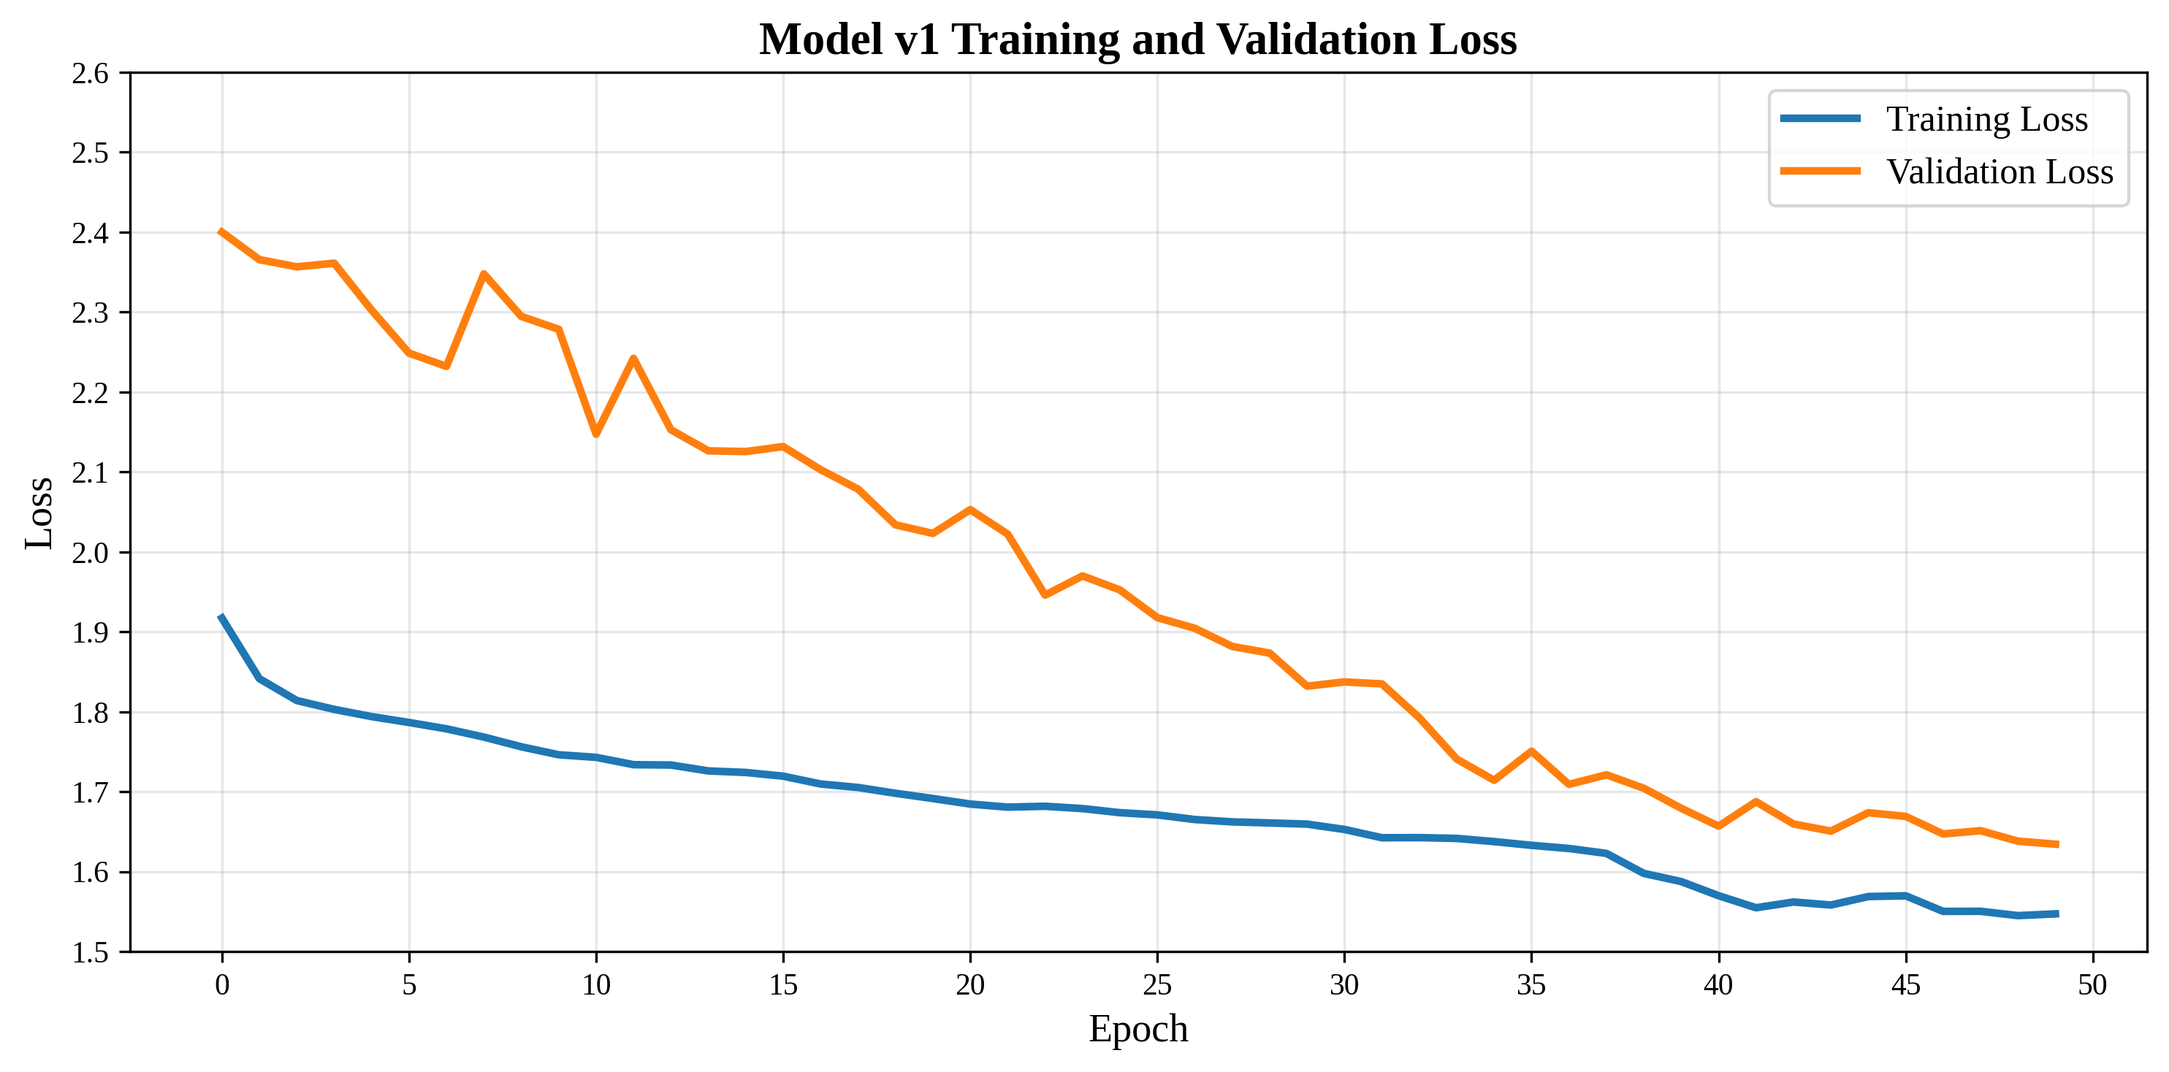
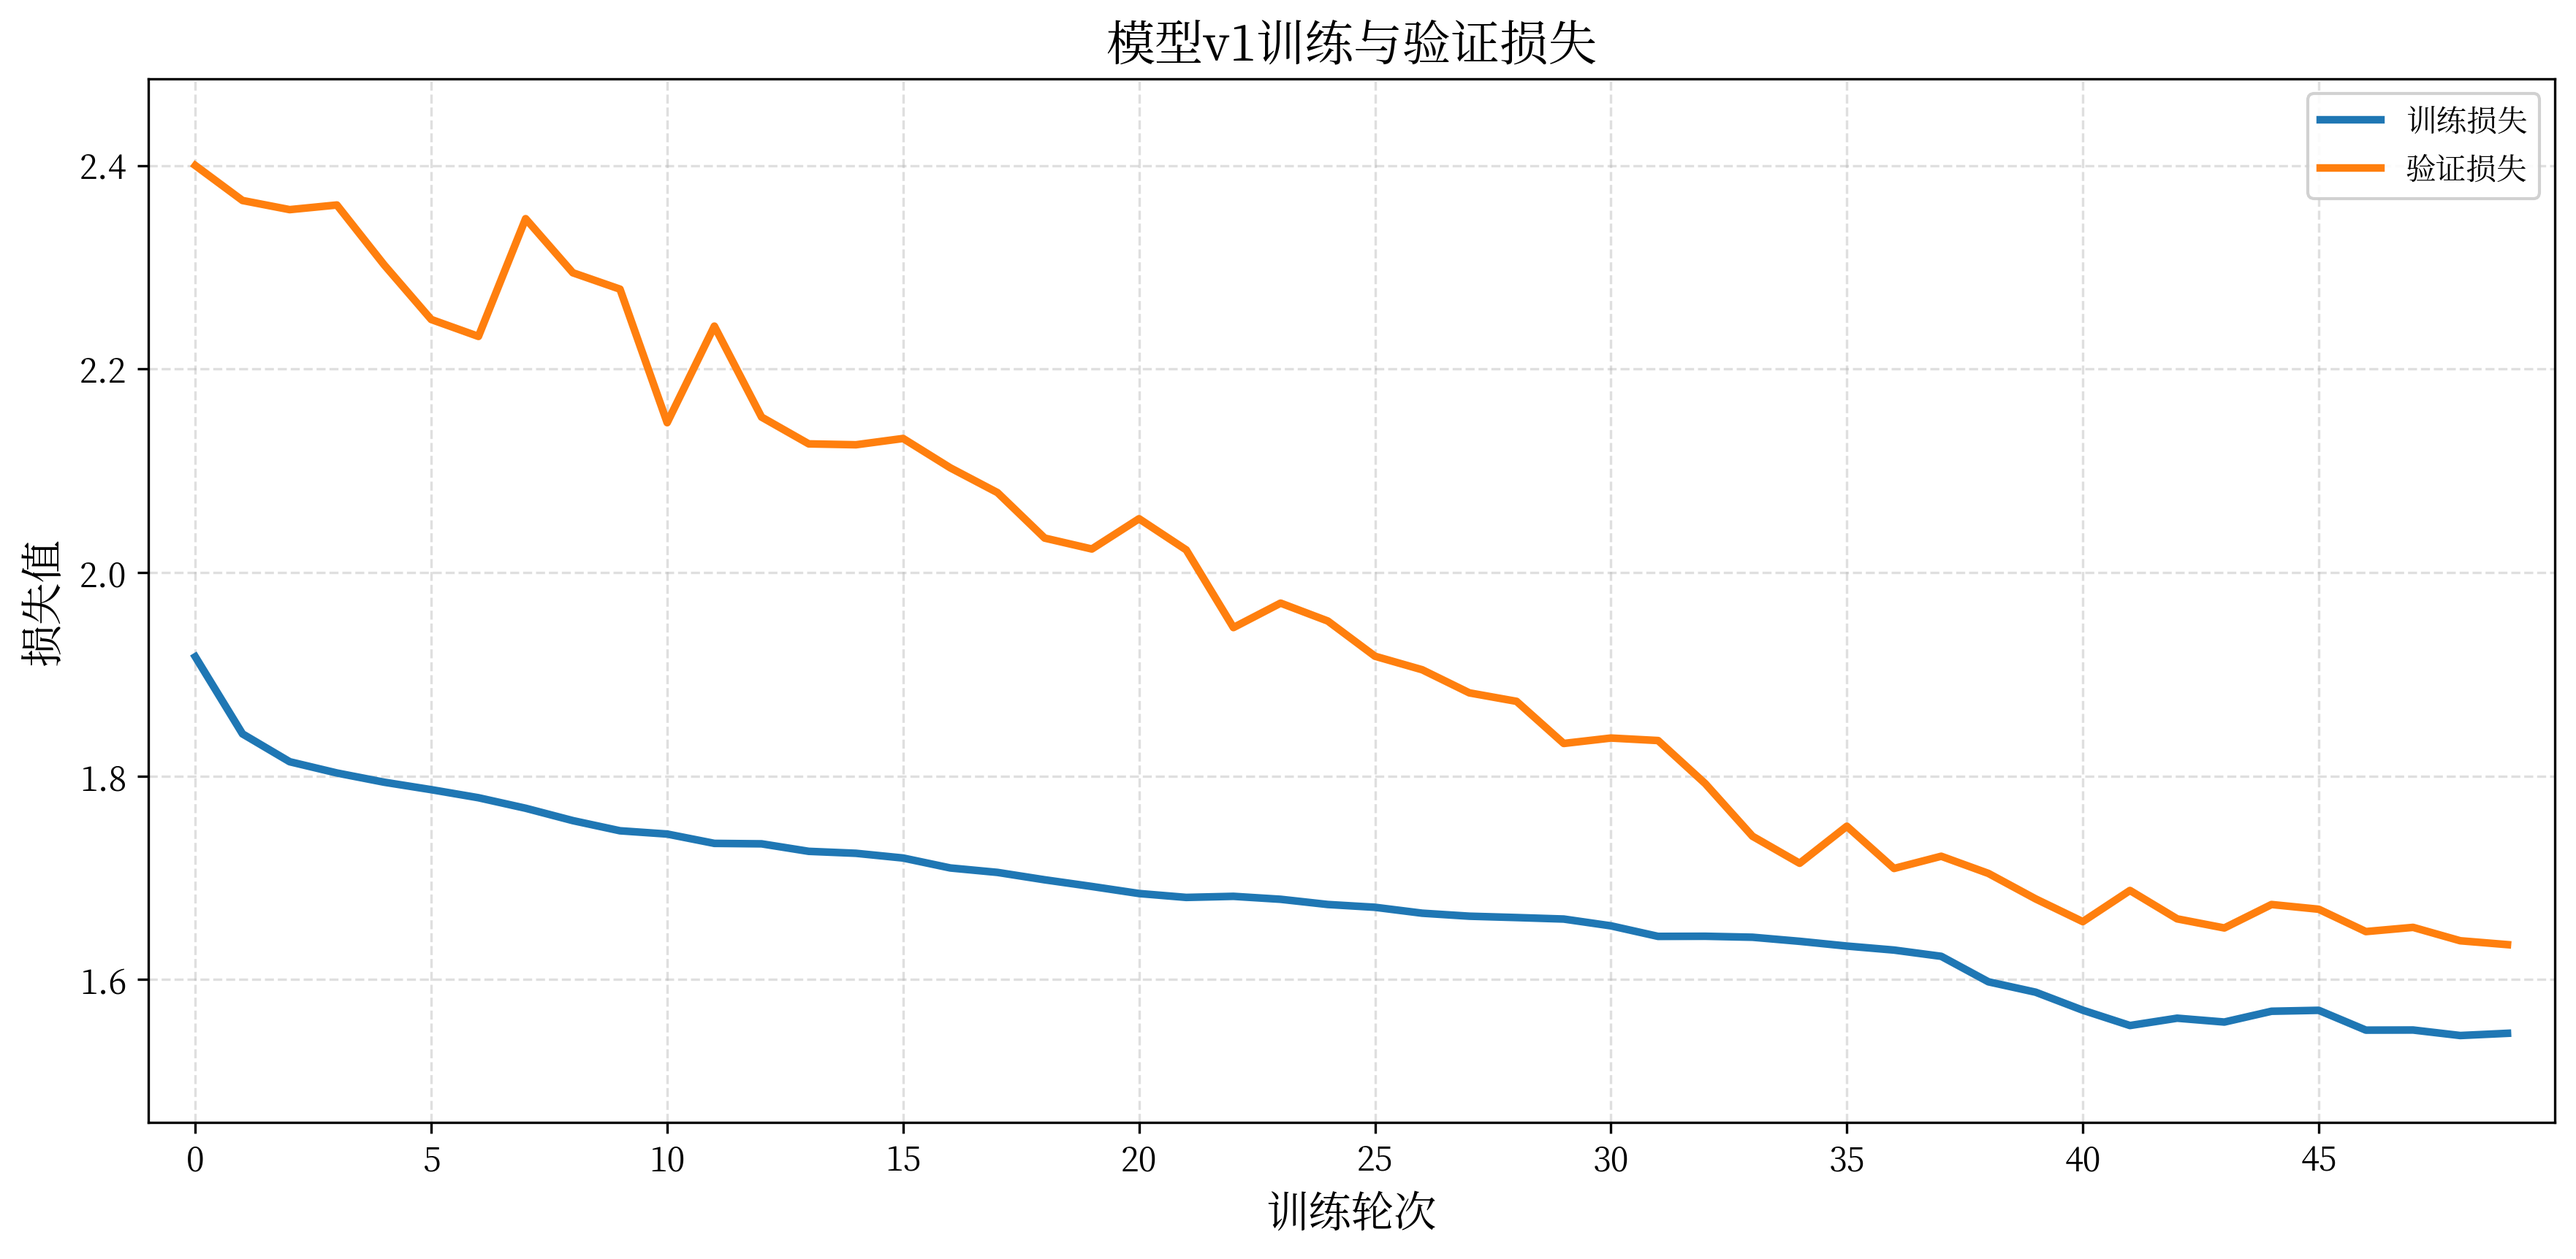
2026.05.26:backup the code

diff --git a/Intelligent-CXR-System/src/components/MainLayout.vue b/Intelligent-CXR-System/src/components/MainLayout.vue
@@ -161,7 +161,7 @@
         >
           <input
             type="file"
-            accept="image/*"
+            accept="image/*,.dcm"
             class="file-input"
             :disabled="!canEdit"
             @change="onFileChange"
@@ -173,7 +173,7 @@
                 : '当前角色仅支持查看，不能上传胸片'
             }}
           </p>
-          <p class="upload-sub" v-if="canEdit">支持 JPG / PNG / JPEG 等格式</p>
+          <p class="upload-sub" v-if="canEdit">支持 JPG / PNG / JPEG / DICOM (.dcm) 等格式</p>
         </div>
 
         <!-- 预览区域 -->

diff --git a/Intelligent-CXR-System/src/App.vue b/Intelligent-CXR-System/src/App.vue
@@ -1068,6 +1068,7 @@ function inferXrayFormat(file) {
 
   const name = String(file.name || '')
   const ext = name.includes('.') ? name.split('.').pop().toUpperCase() : ''
+  if (ext === 'DCM') return 'DICOM'
   return ext || 'PNG'
 }
 

diff --git a/segmentation_modules/plot_comparison.py b/segmentation_modules/plot_comparison.py
@@ -6,9 +6,15 @@ import json
 import os
 import matplotlib.pyplot as plt
 import numpy as np
+import matplotlib.font_manager as fm
 
-# Set font for English
-plt.rcParams['font.family'] = 'DejaVu Sans'
+# 设置思源宋体确保中文正常显示
+font_path = '/data/home/zyx/.local/share/fonts/SourceHanSerif/SourceHanSerifCN-Regular.ttf'
+zh_font = fm.FontProperties(fname=font_path)
+
+# Set font for Chinese
+plt.rcParams['font.family'] = zh_font.get_name()
+plt.rcParams['axes.unicode_minus'] = False
 
 # Define model configurations
 MODELS = [
@@ -57,24 +63,25 @@ def plot_loss_comparison(models_data, save_path):
         val_losses = data[model['val_loss_key']]
         epochs = range(1, len(train_losses) + 1)
         
-        # Plot training loss
+        # Plot training loss - 图例改为中文
         ax.plot(epochs, train_losses, 
                 color=model['color'], 
                 linestyle='-', 
                 linewidth=2,
                 alpha=0.7,
-                label=f'{model["name"]} (train)')
+                label=f'{model["name"]} (训练)')
         
         # Plot validation loss
         ax.plot(epochs, val_losses, 
                 color=model['color'], 
                 linestyle='--', 
                 linewidth=2,
-                label=f'{model["name"]} (val)')
+                label=f'{model["name"]} (验证)')
     
-    ax.set_xlabel('Epoch', fontsize=12)
-    ax.set_ylabel('Loss', fontsize=12)
-    ax.set_title('Training and Validation Loss Comparison', fontsize=14, fontweight='bold')
+    # 标签和标题改为中文，去掉加粗
+    ax.set_xlabel('训练轮次', fontsize=12)
+    ax.set_ylabel('损失值', fontsize=12)
+    ax.set_title('训练与验证损失值对比', fontsize=14, fontweight='normal')
     ax.legend(loc='best', fontsize=10)
     ax.grid(True, alpha=0.3)
     
@@ -93,24 +100,25 @@ def plot_dice_comparison(models_data, save_path):
         val_dices = data[model['val_dice_key']]
         epochs = range(1, len(train_dices) + 1)
         
-        # Plot training Dice
+        # Plot training Dice - 图例改为中文
         ax.plot(epochs, train_dices, 
                 color=model['color'], 
                 linestyle='-', 
                 linewidth=2,
                 alpha=0.7,
-                label=f'{model["name"]} (train)')
+                label=f'{model["name"]} (训练)')
         
         # Plot validation Dice
         ax.plot(epochs, val_dices, 
                 color=model['color'], 
                 linestyle='--', 
                 linewidth=2,
-                label=f'{model["name"]} (val)')
+                label=f'{model["name"]} (验证)')
     
-    ax.set_xlabel('Epoch', fontsize=12)
-    ax.set_ylabel('Dice Coefficient', fontsize=12)
-    ax.set_title('Training and Validation Dice Coefficient Comparison', fontsize=14, fontweight='bold')
+    # 标签和标题改为中文，去掉加粗
+    ax.set_xlabel('训练轮次', fontsize=12)
+    ax.set_ylabel('Dice系数', fontsize=12)
+    ax.set_title('训练与验证Dice系数对比', fontsize=14, fontweight='normal')
     ax.legend(loc='best', fontsize=10)
     ax.grid(True, alpha=0.3)
     

diff --git a/plot.py b/plot.py
@@ -1,0 +1,68 @@
+import pandas as pd
+import matplotlib.pyplot as plt
+import numpy as np
+import matplotlib.font_manager as fm
+
+# 直接指定思源宋体的字体文件路径
+font_path = '/data/home/zyx/.local/share/fonts/SourceHanSerif/SourceHanSerifCN-Regular.ttf'
+zh_font = fm.FontProperties(fname=font_path)
+
+# 使用字体文件路径设置全局字体（注意：这里设置的是 font.family，不是 font.serif）
+plt.rcParams['font.family'] = 'sans-serif'  # 设置为 sans-serif 族
+plt.rcParams['font.sans-serif'] = [zh_font.get_name()]  # 将思源宋体设为 sans-serif 的首选
+plt.rcParams['axes.unicode_minus'] = False
+
+# 可选：设置默认字体大小
+plt.rcParams['font.size'] = 15
+
+# Read the CSV files
+train_df = pd.read_csv('logs_v1/v1_train_loss.csv')
+val_df = pd.read_csv('logs_v1/v1_val_loss.csv')
+
+# Extract epoch and loss values using explicit column names
+train_steps = train_df['epoch']
+train_loss = train_df['train_loss']
+
+val_steps = val_df['epoch']
+val_loss = val_df['val_loss']
+
+# Create the plot with wide-short canvas
+fig, ax = plt.subplots(figsize=(12, 6))
+
+# Plot curves without markers
+ax.plot(train_steps, train_loss, linewidth=2.5, color='#1f77b4', label='训练损失')
+ax.plot(val_steps, val_loss, linewidth=2.5, color='#ff7f0e', label='验证损失')
+
+# Labels and title (使用 fontproperties 参数确保中文显示)
+ax.set_xlabel('Epoch', fontsize=14)  # 英文标签不需要中文字体
+ax.set_ylabel('Loss', fontsize=14)
+ax.set_title('Model v1 Training and Validation Loss', fontsize=16, fontweight='bold')
+
+# 如果你想添加中文标题或标签，需要使用 fontproperties 参数
+ax.set_title('模型v1训练与验证损失', fontproperties=zh_font, fontsize=16, fontweight='bold')
+ax.set_xlabel('训练轮次', fontproperties=zh_font, fontsize=14)
+ax.set_ylabel('损失值', fontproperties=zh_font, fontsize=14)
+
+# Legend and grid (图例也需要指定中文字体)
+ax.legend(fontsize=12, loc='upper right', framealpha=0.9, prop=zh_font)
+ax.grid(True, linestyle='--', alpha=0.4)
+
+# Dynamic axis limits with padding
+all_loss = pd.concat([train_loss, val_loss])
+ymin, ymax = all_loss.min(), all_loss.max()
+padding = (ymax - ymin) * 0.1 if ymax != ymin else 0.2
+ax.set_ylim(ymin - padding, ymax + padding)
+ax.set_xlim(train_steps.min() - 1, train_steps.max() + 1)
+
+# Integer ticks
+ax.set_xticks(np.arange(0, train_steps.max() + 1, 5))
+ax.tick_params(axis='both', labelsize=11)
+
+# Tight layout and save
+plt.tight_layout()
+plt.savefig('logs_v1/v1_loss_curve.png', dpi=300, bbox_inches='tight')
+print('Loss curve saved to logs_v1/v1_loss_curve.png')
+
+# 验证当前使用的字体
+print(f"当前使用的中文字体: {zh_font.get_name()}")
+print(f"字体文件路径: {zh_font.get_file()}")

diff --git a/plot_Sscore.py b/plot_Sscore.py
@@ -1,0 +1,55 @@
+import pandas as pd
+import matplotlib.pyplot as plt
+import numpy as np
+import matplotlib.font_manager as fm
+
+# 设置思源宋体（确保中文正常显示）
+font_path = '/data/home/zyx/.local/share/fonts/SourceHanSerif/SourceHanSerifCN-Regular.ttf'
+zh_font = fm.FontProperties(fname=font_path)
+
+# 全局字体配置
+plt.rcParams['font.family'] = zh_font.get_name()
+plt.rcParams['axes.unicode_minus'] = False
+
+# Read the CSV files
+v1_df = pd.read_csv('logs_v2/v1_S-score.csv')
+v2_df = pd.read_csv('logs_v2/v2_S-score.csv')
+
+# Extract step and S-score values using explicit column names
+v1_steps = v1_df['step']
+v1_score = v1_df['bs32-lr1e-04-ep50-val/s_score_step']
+
+v2_steps = v2_df['step']
+v2_score = v2_df['dacg_structured_20251208_210105-val/s_score_step']
+
+# Create the plot with wide-short canvas
+fig, ax = plt.subplots(figsize=(12, 6))
+
+# Plot curves without markers - 图例改为中文
+ax.plot(v1_steps, v1_score, linewidth=2.5, color='#1f77b4', label='模型v1 S-Score')
+ax.plot(v2_steps, v2_score, linewidth=2.5, color='#ff7f0e', label='模型v2 S-Score')
+
+# Labels and title - 标题改为中文
+ax.set_xlabel('训练轮次', fontsize=14)
+ax.set_ylabel('S-scores', fontsize=14)
+ax.set_title('模型v1与v2验证集S-Score曲线', fontsize=16)
+
+# Legend and grid - 图例位置保持右下角
+ax.legend(fontsize=12, loc='lower right', framealpha=0.9)
+ax.grid(True, linestyle='--', alpha=0.4)
+
+# Dynamic axis limits with padding
+all_score = pd.concat([v1_score, v2_score])
+ymin, ymax = all_score.min(), all_score.max()
+padding = (ymax - ymin) * 0.1 if ymax != ymin else 0.2
+ax.set_ylim(ymin - padding, ymax + padding)
+ax.set_xlim(v1_steps.min() - 1, v1_steps.max() + 1)
+
+# Integer ticks
+ax.set_xticks(np.arange(0, v1_steps.max() + 1, 5))
+ax.tick_params(axis='both', labelsize=11)
+
+# Tight layout and save
+plt.tight_layout()
+plt.savefig('logs_v2/v2_sscore_curve.png', dpi=300, bbox_inches='tight')
+print('S-score curve saved to logs_v2/v2_sscore_curve.png')

diff --git a/backend/app/routers/xray.py b/backend/app/routers/xray.py
@@ -214,7 +214,8 @@ async def upload_xray(
     db: Session = Depends(get_db),
     current_user=Depends(require_roles(RoleName.RADIOLOGIST, RoleName.ADMIN)),
 ):
-    from app.utils.file_storage import save_upload
+    from app.utils.file_storage import save_upload, convert_dicom_to_png
+    from pathlib import Path
 
     class _Form:
         def __init__(self):
@@ -224,8 +225,21 @@ async def upload_xray(
             self.patient_age = patient_age
             self.xray_format = xray_format
 
+    form_data = _Form()
     path = save_upload(file, patient_id)
-    xray = xray_service.create_record(db, _Form(), path, current_user.user_id)
+    
+    # Convert DICOM to PNG if needed
+    if xray_format.upper() == 'DICOM' or Path(file.filename or '').suffix.lower() == '.dcm':
+        try:
+            png_path = path.rsplit('.', 1)[0] + '.png'
+            convert_dicom_to_png(path, png_path)
+            path = png_path
+            form_data.xray_format = 'PNG'
+        except Exception as e:
+            logger.error(f"DICOM conversion failed for {file.filename}: {e}")
+            raise AppException("DICOM_CONVERSION_FAILED", f"DICOM转换失败: {str(e)}", status_code=400)
+    
+    xray = xray_service.create_record(db, form_data, path, current_user.user_id)
 
     await log_service.write(
         db=db,

diff --git a/backend/app/utils/file_storage.py b/backend/app/utils/file_storage.py
@@ -2,6 +2,9 @@ from datetime import datetime
 from pathlib import Path
 from fastapi import UploadFile
 from app.config import settings
+import pydicom
+import numpy as np
+from PIL import Image
 
 
 def _ensure_dir(path: Path) -> None:
@@ -42,3 +45,26 @@ def build_report_path(report_id: int) -> str:
     root = Path(settings.STORAGE_ROOT) / "reports"
     _ensure_dir(root)
     return str(root / f"report_{report_id}.pdf")
+
+
+def convert_dicom_to_png(dicom_path: str, output_path: str) -> str:
+    """Convert DICOM file to PNG format."""
+    try:
+        # Read DICOM file
+        dicom_data = pydicom.dcmread(dicom_path)
+        
+        # Get pixel array
+        pixel_array = dicom_data.pixel_array
+        
+        # Normalize pixel values to 0-255 range
+        pixel_array = pixel_array.astype(np.float32)
+        pixel_array = (pixel_array - pixel_array.min()) / (pixel_array.max() - pixel_array.min() + 1e-8) * 255
+        pixel_array = pixel_array.astype(np.uint8)
+        
+        # Convert to PIL Image and save as PNG
+        image = Image.fromarray(pixel_array)
+        image.save(output_path, 'PNG')
+        
+        return output_path
+    except Exception as e:
+        raise RuntimeError(f"DICOM conversion failed: {str(e)}")
